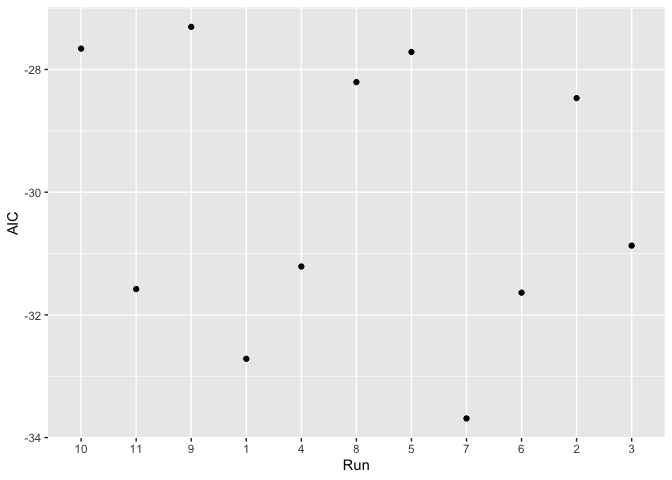
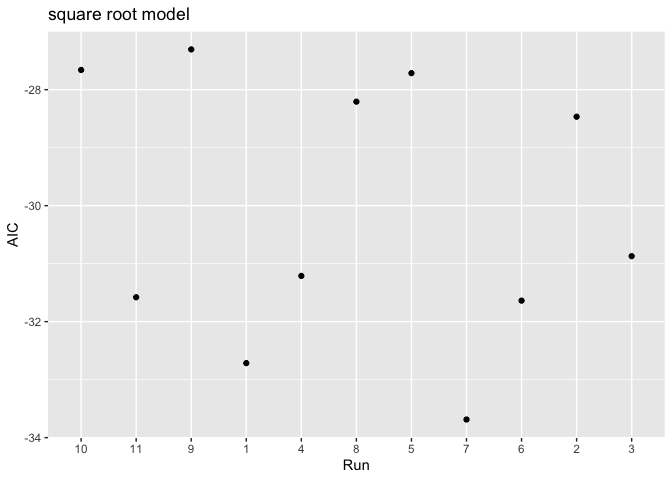
This is an update

diff --git a/hw_8.md b/hw_8.md
@@ -65,7 +65,8 @@ glance <- by_run %>%
   mutate(glance = map(model, broom::glance)) %>% 
   unnest(glance)
 ggplot(glance, aes(x=Run, y=AIC)) + 
-  geom_point() 
+  geom_point() + 
+  ggtitle("square root model")
 ```
 
 ![](hw_8_files/figure-gfm/unnamed-chunk-3-1.png)<!-- -->
@@ -87,9 +88,50 @@ glance <- by_run_2 %>%
   mutate(glance = map(model, broom::glance)) %>% 
   unnest(glance)
 ggplot(glance, aes(x=Run, y=AIC)) + 
-  geom_point() 
+  geom_point() + 
+  ggtitle("monod-type model")
 ```
 
 ![](hw_8_files/figure-gfm/unnamed-chunk-4-1.png)<!-- -->
 
 It is better to use the monod-type model for this sort of experiment.
+
+# Part 3
+
+``` r
+md1 <- DNase
+md1 %>% 
+ggplot(aes(x=conc, y=density)) + 
+  geom_point() 
+```
+
+![](hw_8_files/figure-gfm/unnamed-chunk-5-1.png)<!-- -->
+
+``` r
+nls_mod <- formula(density ~ beta_1 * sqrt(conc) + beta_0)
+
+single_sqrt_model <- nls2(nls_mod, 
+                    data = DNase, 
+                    start = list(beta_1 = 0.5, beta_0 = 0.1))
+ md1 %>% 
+  add_predictions(single_sqrt_model) %>% 
+  ggplot(aes(conc, pred)) + 
+  geom_smooth()+ 
+  ggtitle("square root model_smooth")
+```
+
+![](hw_8_files/figure-gfm/unnamed-chunk-6-1.png)<!-- -->
+
+``` r
+mon_mod <- formula(density ~ beta_3*conc / (beta_4+conc))
+monod_model <- nls2(mon_mod, 
+               data = DNase, 
+               start = list(beta_3 = 2, beta_4 = 3))
+ md1 %>% 
+  add_predictions(monod_model) %>% 
+  ggplot(aes(conc, pred)) + 
+  geom_smooth()+ 
+  ggtitle("monod-type model_smooth")
+```
+
+![](hw_8_files/figure-gfm/unnamed-chunk-7-1.png)<!-- -->
